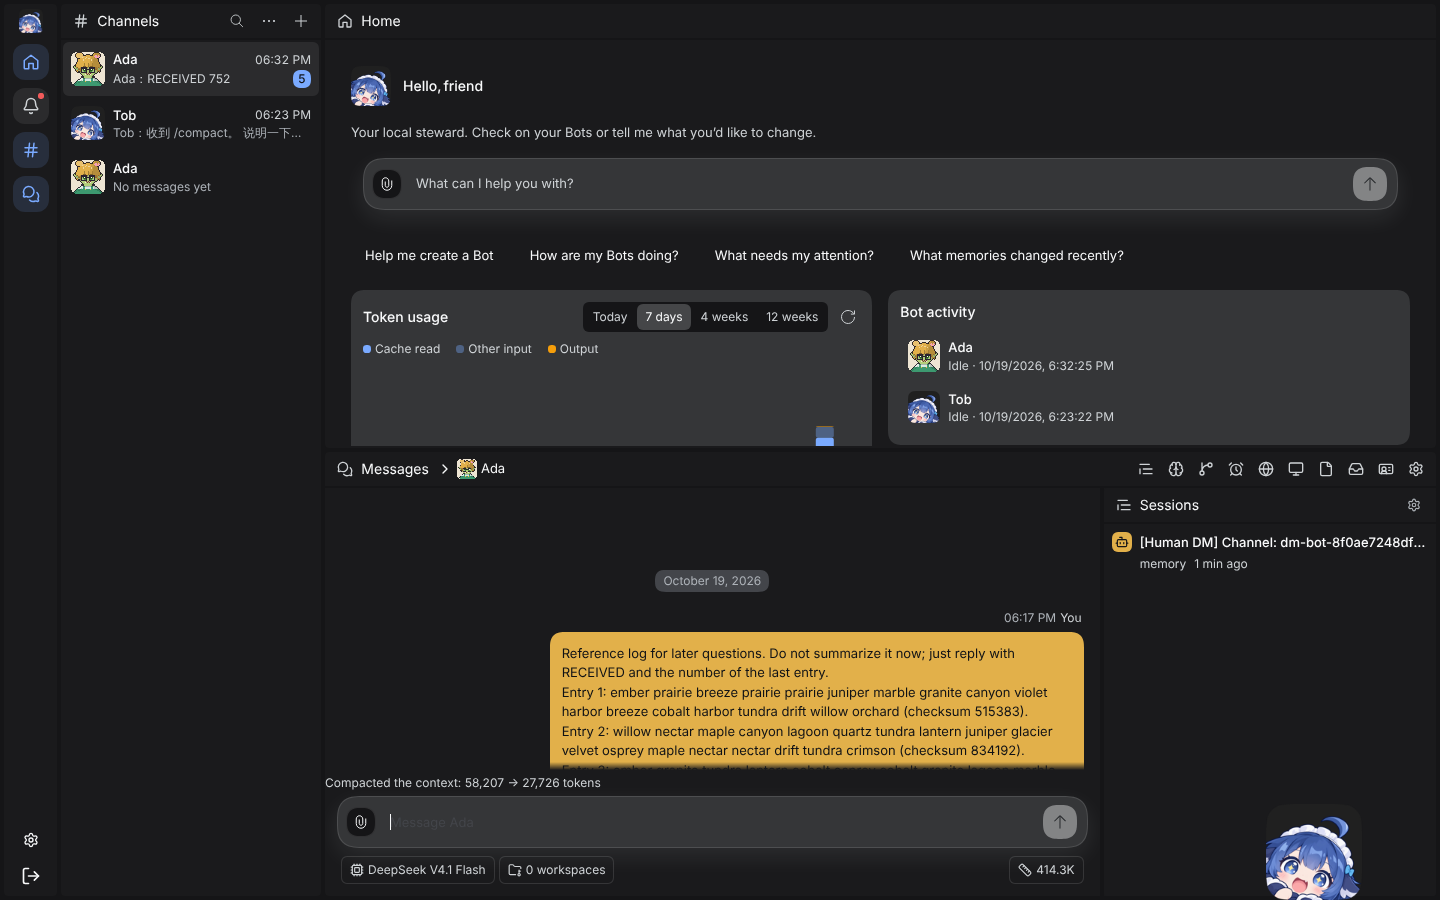
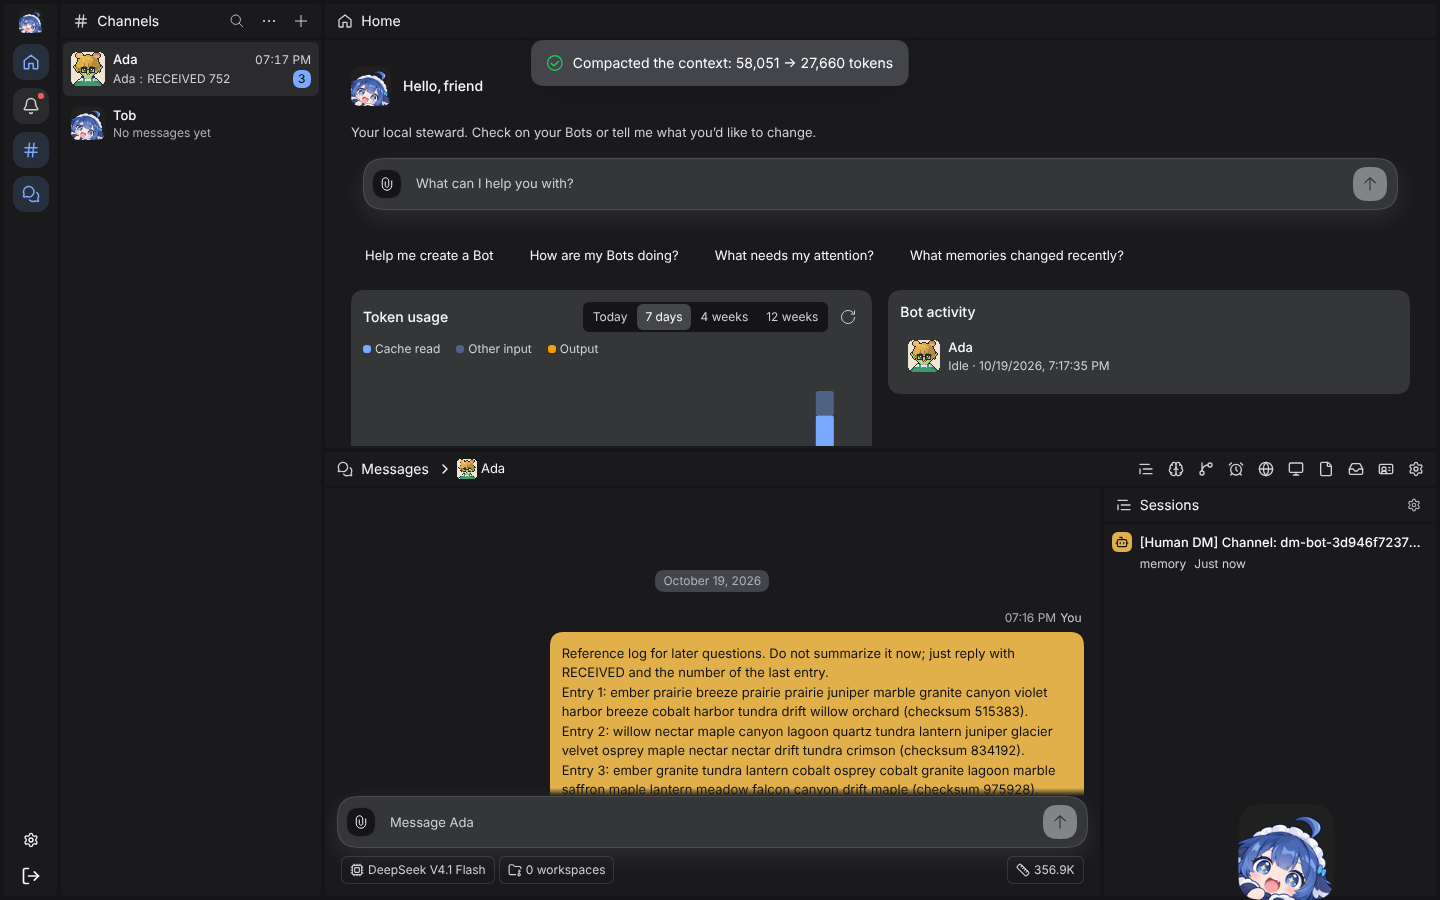
fix: show the manual compaction result as a transient toast (#2332)
Claude-Session: https://claude.ai/code/session_01SPXRVz8wDdS4p6odxstkFn

diff --git a/packages/client/src/client/bot-main.tsx b/packages/client/src/client/bot-main.tsx
@@ -44,6 +44,7 @@ import {
   IconNewChatOutlineRegular,
   IconPanelLeftOutlineRegular,
   IconUserOutlineRegular,
+  Toast,
   Tooltip,
 } from '@deepseek-ai/dsh-client-ui-primitives';
 
@@ -1138,7 +1139,14 @@ function ConversationView({
   >(scopeKey, undefined);
   const [recallNotice, setRecallNotice] = useScopedState<string>(scopeKey);
   const [submissionNotice, setSubmissionNotice] = useScopedState<string>(scopeKey);
-  const [compactNotice, setCompactNotice] = useScopedState<string>(scopeKey);
+  const [compactNotice, setCompactNotice] = useScopedState<{
+    seq: number;
+    text: string;
+    tone?: 'success';
+    holdMs: number;
+  }>(scopeKey);
+  const [compacting, setCompacting] = useScopedState(scopeKey, false);
+  const compactSeq = useRef(0);
   const submissionChannelId = draftScope === undefined ? undefined : state.conversation.channel?.id;
   const readSubmissions = () =>
     submissionChannelId === undefined
@@ -1761,24 +1769,39 @@ function ConversationView({
   };
   const compactProfileBot = async (): Promise<void> => {
     if (profileBot === undefined) return;
-    setCompactNotice(t('composerCompact.running'));
+    const show = (text: string, holdMs: number, tone?: 'success') => {
+      compactSeq.current += 1;
+      setCompactNotice({ seq: compactSeq.current, text, holdMs, ...(tone ? { tone } : {}) });
+    };
+    setCompacting(true);
+    show(t('composerCompact.running'), 120000);
     try {
       const result = await actions.compactBot(profileBot.slug);
       const tokens = (value: number | null) => (value === null ? '?' : value.toLocaleString());
-      setCompactNotice(
-        result.outcome === 'compacted'
-          ? t('composerCompact.done', {
-              before: tokens(result.tokensBefore),
-              after: tokens(result.tokensAfter),
-            })
-          : result.outcome === 'busy'
-            ? t('composerCompact.busy')
-            : result.outcome === 'not-loaded'
-              ? t('composerCompact.notLoaded')
-              : t('composerCompact.nothing'),
-      );
+      if (result.outcome === 'compacted')
+        show(
+          t('composerCompact.done', {
+            before: tokens(result.tokensBefore),
+            after: tokens(result.tokensAfter),
+          }),
+          4000,
+          'success',
+        );
+      else
+        show(
+          t(
+            result.outcome === 'busy'
+              ? 'composerCompact.busy'
+              : result.outcome === 'not-loaded'
+                ? 'composerCompact.notLoaded'
+                : 'composerCompact.nothing',
+          ),
+          result.outcome === 'nothing' ? 3000 : 6000,
+        );
     } catch {
-      setCompactNotice(t('composerCompact.failed'));
+      show(t('composerCompact.failed'), 6000);
+    } finally {
+      setCompacting(false);
     }
   };
   const conversationShortcuts: ComposerShortcut[] = [
@@ -1801,7 +1824,7 @@ function ConversationView({
             id: 'compact' as const,
             label: t('composerCommand.compact'),
             icon: <ChannelSidebarIcon name="archive" />,
-            disabled: compactNotice === t('composerCompact.running'),
+            disabled: compacting,
             run: () => void compactProfileBot(),
           },
         ]),
@@ -2209,7 +2232,6 @@ function ConversationView({
     setSubmissionNotice(
       attempt?.persisted === false ? t('composer.submissionStorageError') : undefined,
     );
-    setCompactNotice(undefined);
     recall.current = undefined;
     setRecallNotice(undefined);
     recovery.update({ text: '', mentions: [], channelRefs: [], uploads: [] });
@@ -2981,6 +3003,19 @@ function ConversationView({
                   activeMemoryView === undefined && selectedIds === undefined ? 'contents' : 'none',
               }}
             >
+              {compactNotice === undefined ? null : (
+                <Toast
+                  key={compactNotice.seq}
+                  text={compactNotice.text}
+                  holdMs={compactNotice.holdMs}
+                  {...(compactNotice.tone ? { tone: compactNotice.tone } : {})}
+                  onDone={() =>
+                    setCompactNotice((current) =>
+                      current?.seq === compactNotice.seq ? undefined : current,
+                    )
+                  }
+                />
+              )}
               <div
                 className="bh-composer-recovery"
                 ref={recovery.mount}
@@ -3020,11 +3055,6 @@ function ConversationView({
                   <p role="status">{submissionNotice}</p>
                 )}
                 {recallNotice === undefined ? null : <p role="status">{recallNotice}</p>}
-                {compactNotice === undefined ? null : (
-                  <p role="status" data-compact-notice="">
-                    {compactNotice}
-                  </p>
-                )}
                 {recovery.versions.length > 1 ? (
                   <section aria-label={t('composer.draftConflict')}>
                     <p role="alert">{t('composer.draftConflict')}</p>
